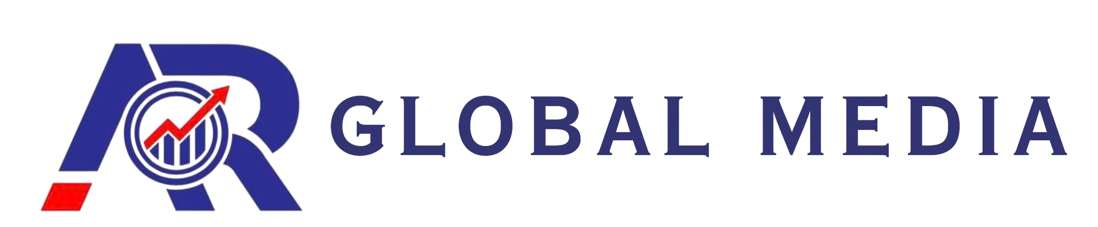
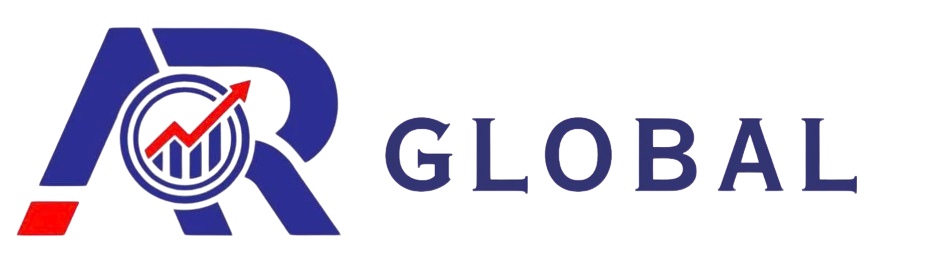
fix

Changed region(s): [[0.0, 0.0925, 0.9779, 0.9559]]

diff --git a/components/ui/CTA/index.jsx b/components/ui/CTA/index.jsx
@@ -17,10 +17,10 @@ const CTA = () => {
                     </div>
                     <div className="max-w-xl mt-6 md:mt-0 lg:max-w-2xl">
                         <h2 className="text-gray-800 text-3xl font-semibold sm:text-4xl">
-                            Empower Your Business with AOR Global Media
+                            Empower Your Business with AOR Global 
                         </h2>
                         <p className="mt-3 text-gray-600">
-                            In partnership with AOR Global Media, businesses unlock growth potential through strategic insights, innovative solutions, and measurable results, ensuring success in today’s competitive landscape.
+                            In partnership with AOR Global , businesses unlock growth potential through strategic insights, innovative solutions, and measurable results, ensuring success in today’s competitive landscape.
                         </p>
                         <ul className="mt-4 list-disc list-inside text-gray-600">
                             <li>Marketing & Brand Strategy</li>

diff --git a/components/ui/Hero/index.jsx b/components/ui/Hero/index.jsx
@@ -11,7 +11,7 @@ const Hero = () => (
         </h1>
         {/* Subtitle */}
         <p className="max-w-xl mx-auto">
-        At AOR Global Media, we empower businesses with data-driven strategies, tailored solutions, and measurable results to thrive and succeed in today's competitive landscape.
+        At AOR Global , we empower businesses with data-driven strategies, tailored solutions, and measurable results to thrive and succeed in today's competitive landscape.
         </p>
         {/* Buttons */}
         <div className="flex items-center justify-center gap-x-3 font-medium text-sm">
